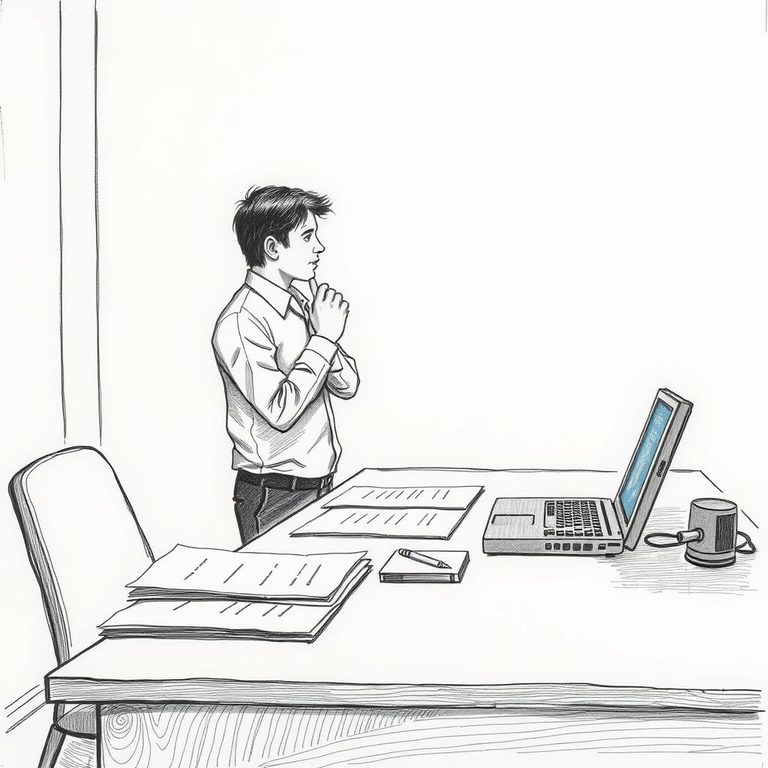
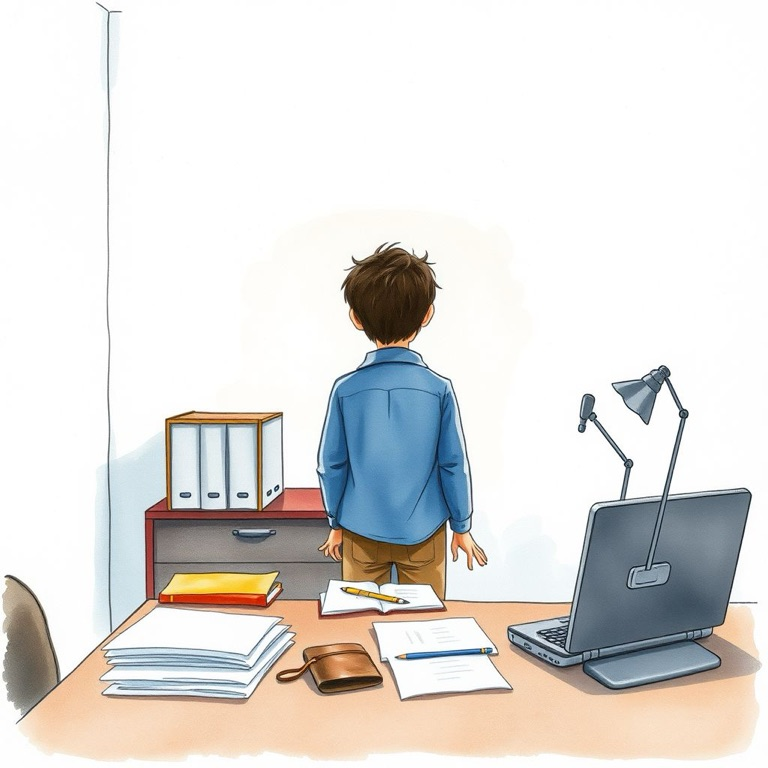
訪客牆：訪客寫的日記互相看得到（只能看、不能改不能刪），一天可寫多篇 (#75)
- 有跡可循：每篇訪客日記記下 IP 的 HMAC 雜湊（不存原始 IP）
- 公開前檢查：讀日記的 AI 同一次判斷能不能公開；含網址、電話、Email、LINE 的不公開；沒畫出圖的不公開
- 訪客改了日記：重新檢查過才再公開
- 別人寫的日記唯讀，沒有編輯、重新生成按鈕
- 所有人同一天都能寫多篇
- 範例 2、3、5 換新畫風的圖（日系動漫、懷舊底片、水彩繪本）
- CI：第二位訪客看不到未公開的、公開後看得到但打不開編輯頁

diff --git a/public/assets/css/style-v2.css b/public/assets/css/style-v2.css
@@ -2089,3 +2089,4 @@ h1, h2, h3, .btn, .chip-body, .calendar-header h2 { font-weight: 400; }
   .style-chip input:checked + .chip-body { animation: none; }
   .mc-hero-back, .diary-thumb { transition: none; }
 }
+.trial-note { display: block; margin-top: 2px; font-size: 0.82rem; color: var(--color-text-muted); }

diff --git a/app/controllers/DiaryController.php b/app/controllers/DiaryController.php
@@ -12,6 +12,7 @@ require_once __DIR__ . '/../helpers/csrf.php';
 require_once __DIR__ . '/../helpers/validator.php';
 require_once __DIR__ . '/../helpers/demo_diaries.php';
 require_once __DIR__ . '/../helpers/replicate.php';
+require_once __DIR__ . '/../helpers/guest_wall.php';
 
 class DiaryController
 {
@@ -31,15 +32,22 @@ class DiaryController
         $year = (int)($_GET['year'] ?? date('Y'));
         $month = str_pad((int)($_GET['month'] ?? date('m')), 2, '0', STR_PAD_LEFT);
 
-        // 註冊的使用者只看自己的；訪客（含試寫過一篇的訪客）看範例日記加上自己寫的
-        $own = $user_id > 0 ? $this->diaryModel->getDiariesByMonth($user_id, $year, $month) : [];
+        // 註冊的使用者只看自己的；沒註冊的人（含訪客）看範例日記＋所有訪客寫的（大家互相看得到）
         if (isRegisteredUser()) {
-            $diaries = $own;
+            $diaries = $this->diaryModel->getDiariesByMonth($user_id, $year, $month);
         } else {
-            // 訪客自己寫了的那天就不放範例，免得同一天變兩篇
-            $ownDates = array_column($own, 'diary_date');
-            $demos = array_filter(demoDiaries($year, $month), fn($d) => !in_array($d['diary_date'], $ownDates, true));
-            $diaries = array_merge(array_values($demos), $own);
+            $guests = $this->diaryModel->getGuestDiariesByMonth($year, $month);
+            // 自己寫的（含還沒公開的）也要看得到，同一篇不重複
+            if ($user_id > 0) {
+                $ids = array_column($guests, 'id');
+                foreach ($this->diaryModel->getDiariesByMonth($user_id, $year, $month) as $mine) {
+                    if (!in_array($mine['id'], $ids)) $guests[] = $mine;
+                }
+            }
+            // 有訪客寫了的那天就不放範例，免得範例跟訪客的擠在同一格
+            $guestDates = array_column($guests, 'diary_date');
+            $demos = array_filter(demoDiaries($year, $month), fn($d) => !in_array($d['diary_date'], $guestDates, true));
+            $diaries = array_merge(array_values($demos), $guests);
         }
         $pageTitle = '心情日曆';
         include BASE_PATH . '/app/views/diary/calendar.php';
@@ -95,16 +103,16 @@ class DiaryController
         $mood = $validation['mood'];
         $diary_date = $validation['diary_date'];
 
-        // 一天只能一篇：該日期已有日記則導向編輯既有日記，不再新增
-        // 訪客例外：試寫第二篇不該被轉去編輯頁（編輯不會重畫、訪客又不能刪），變成死路
-        $existing = isRegisteredUser() ? $this->diaryModel->getDiariesByDate($user_id, $diary_date) : [];
-        if (!empty($existing)) {
-            header('Location: ' . APP_URL . '/public/index.php?action=diary_edit&id=' . $existing[0]['id'] . '&notice=date_exists');
-            exit;
-        }
+        // 同一天可以寫好幾篇（日曆那格會變成好幾個點，點進去看當天列表）
 
         try {
             $diary_id = $this->diaryModel->create($user_id, $title, $content, $mood, $diary_date, null, null);
+
+            if ($diary_id && !isRegisteredUser()) {
+                $ipHash = guestIpHash(rateLimitClientIp());
+                $this->diaryModel->update($diary_id, ['ip_hash' => $ipHash]);
+                logMessage("訪客日記 #{$diary_id} ip_hash=" . substr($ipHash, 0, 16), 'INFO');
+            }
 
             if ($diary_id) {
                 $_SESSION['diary_art_style'] = $_POST['image_style'] ?? 'random';
@@ -168,6 +176,13 @@ class DiaryController
                 'mood' => $validation['mood'],
             ]);
 
+            if (!isRegisteredUser()) {
+                $public = !empty($diary['image_path'])
+                    && !looksLikeContactOrSpam($validation['title'] . "\n" . $validation['content'])
+                    && aiSaysPublicOk($validation['title'], $validation['content']);
+                $this->diaryModel->update($diary_id, ['is_public' => $public ? 1 : 0]);
+            }
+
             header('Location: ' . APP_URL . '/public/index.php?action=diary_detail&id=' . $diary_id);
             exit;
         }
@@ -191,6 +206,10 @@ class DiaryController
             $diary = findDemoDiary($diary_id, $year, $month);
         } elseif ($diary_id > 0) {
             $diary = $this->diaryModel->findById($diary_id, $user_id);
+            // 別的訪客寫的：沒註冊的人看得到，唯讀
+            if (!$diary && !isRegisteredUser()) {
+                $diary = $this->diaryModel->findGuestDiary($diary_id);
+            }
         } else {
             $this->showError('無效的日記 ID');
             return;
@@ -215,7 +234,15 @@ class DiaryController
         $user_id = $_SESSION['user_id'] ?? 0;
         $date = $_GET['date'] ?? date('Y-m-d');
 
-        $diaries = $user_id > 0 ? $this->diaryModel->getDiariesByDate($user_id, $date) : [];
+        $diaries = isRegisteredUser()
+            ? $this->diaryModel->getDiariesByDate($user_id, $date)
+            : $this->diaryModel->getGuestDiariesByDate($date); // 沒註冊的人看所有訪客那天公開的
+        if (!isRegisteredUser() && $user_id > 0) {
+            $ids = array_column($diaries, 'id');
+            foreach ($this->diaryModel->getDiariesByDate($user_id, $date) as $mine) {
+                if (!in_array($mine['id'], $ids)) $diaries[] = $mine;
+            }
+        }
         $pageTitle = $date . ' 的日記';
         include BASE_PATH . '/app/views/diary/date_list.php';
     }
@@ -300,12 +327,7 @@ class DiaryController
         $diary_date = $validation['diary_date'];
         $mood = $validation['mood'];
 
-        // 一天只能一篇：該日期已有日記則回傳既有日記 id，不再新增
-        $existing = $this->diaryModel->getDiariesByDate($user_id, $diary_date);
-        if (!empty($existing)) {
-            echo json_encode(['success' => false, 'message' => '該日期已有日記', 'existing_id' => $existing[0]['id']]);
-            return;
-        }
+        // 同一天可以寫好幾篇
 
         try {
             $diary_id = $this->diaryModel->create(
@@ -388,9 +410,9 @@ class DiaryController
         $results = ['success' => true, 'image_url' => null, 'quote' => null];
 
         // 先讓文字模型讀日記：寫出英文畫面描述（給生圖用）與心情短語
-        $reading = ['scene' => null, 'quote' => null];
+        $reading = ['scene' => null, 'quote' => null, 'public_ok' => false];
         try {
-            $reading = $this->callAIDiaryReading($content, $mood);
+            $reading = $this->callAIDiaryReading($content, $mood, $diary['title'] ?? '');
         } catch (Exception $e) {
             logMessage("AI 讀日記失敗: " . $e->getMessage(), 'ERROR');
             $results['quote_error'] = $e->getMessage();
@@ -411,6 +433,13 @@ class DiaryController
         if ($reading['quote']) {
             $results['quote'] = $reading['quote'];
             $this->diaryModel->update($diary_id, ['ai_generated_text' => $reading['quote']]);
+        }
+
+        // 訪客牆：有圖、AI 說可以公開、沒留網址電話，才給別的訪客看
+        if (!isRegisteredUser() && $results['image_url']) {
+            $public = $reading['public_ok'] && !looksLikeContactOrSpam(($diary['title'] ?? '') . "\n" . $content);
+            $this->diaryModel->update($diary_id, ['is_public' => $public ? 1 : 0]);
+            if (!$public) logMessage("訪客日記 #{$diary_id} 不公開（AI 檢查或含聯絡方式）", 'INFO');
         }
 
         // 沒畫出圖：次數還回去、解除 60 秒限制、留住畫風，讓「再試一次」馬上能用
@@ -566,15 +595,7 @@ class DiaryController
     // ============================================================
     private function showCreateForm()
     {
-        // 一天只能一篇：若指定日期已有日記，直接導向編輯既有日記
-        $user_id = $_SESSION['user_id'] ?? 0;
-        $requestedDate = $_GET['date'] ?? date('Y-m-d');
-        $existing = isRegisteredUser() ? $this->diaryModel->getDiariesByDate($user_id, $requestedDate) : []; // 訪客可以同一天多寫幾篇
         $aiRemaining = isRegisteredUser() ? null : aiLimitRemaining(); // 訪客看得到今天還能試幾次
-        if (!empty($existing)) {
-            header('Location: ' . APP_URL . '/public/index.php?action=diary_edit&id=' . $existing[0]['id'] . '&notice=date_exists');
-            exit;
-        }
         $pageTitle = '新增日記';
         include BASE_PATH . '/app/views/diary/create.php';
     }
@@ -685,7 +706,7 @@ class DiaryController
     // 內部：讀日記（GPT-5 nano）→ 英文畫面描述＋繁中心情短語
     // 生圖模型看不懂中文，所以先把日記寫成具體的英文畫面，圖才會跟內容對得上
     // ============================================================
-    private function callAIDiaryReading($content, $mood)
+    private function callAIDiaryReading($content, $mood, $title = '')
     {
         $prompt = "你是插畫導演，也是溫柔的朋友。讀下面這篇日記，只回傳一個 JSON 物件，不要其他文字。\n"
                 . "欄位規則：\n"
@@ -693,13 +714,15 @@ class DiaryController
                 . "畫面裡不能有招牌、菜單、海報、螢幕上的字或任何文字，場景請描述成人物與物品的特寫。\n"
                 . "- quote：繁體中文，12～22 字，像朋友讀完後寫在卡片背面的一句話：有一點詩意的比喻，貼著這篇的心情（好笑就輕快、緊張就安撫）。"
                 . "不要重述日記內容，不要用「光」「溫暖」這類空泛字眼。\n"
-                . '格式：{"scene": "...", "quote": "..."}' . "\n\n"
+                . "- public_ok：這篇能不能公開給陌生人看。辱罵或歧視他人、色情、暴力威脅、自傷內容、指名道姓攻擊真實人物、廣告或拉人、留下聯絡方式或個資，就是 false；一般心情、抱怨、難過都是 true。\n"
+                . '格式：{"scene": "...", "quote": "...", "public_ok": true}' . "\n\n"
+                . "標題：" . mb_substr((string) $title, 0, 100) . "\n"
                 . "日記（心情 {$mood}）：\n" . mb_substr($content, 0, 600);
 
         $data = extractJsonObject(replicateText($prompt, 300)) ?? [];
         $scene = trim((string) ($data['scene'] ?? ''));
         $quote = trim((string) ($data['quote'] ?? ''));
-        return ['scene' => $scene ?: null, 'quote' => $quote ?: null];
+        return ['scene' => $scene ?: null, 'quote' => $quote ?: null, 'public_ok' => ($data['public_ok'] ?? false) === true];
     }
 
     // ============================================================

diff --git a/app/models/Diary.php b/app/models/Diary.php
@@ -54,7 +54,7 @@ class Diary
         try {
             $fields = [];
             $values = [];
-            foreach (['ai_generated_text', 'image_path', 'title', 'content', 'mood', 'diary_date'] as $field) {
+            foreach (['ai_generated_text', 'image_path', 'title', 'content', 'mood', 'diary_date', 'is_public', 'ip_hash'] as $field) {
                 if (array_key_exists($field, $data)) {
                     $fields[] = "$field = ?";
                     $values[] = $data[$field];
@@ -108,6 +108,53 @@ class Diary
      * 獲取指定使用者和月份的所有日記
      * @return array
      */
+    // 訪客寫的日記，過了 AI 檢查（is_public = 1）大家都看得到（訪客帳號都叫 guest_數字，24 小時後連同日記一起刪掉）
+    public function getGuestDiariesByMonth($year, $month)
+    {
+        try {
+            $startDate = "$year-$month-01";
+            $endDate = date("Y-m-t", strtotime($startDate));
+            $stmt = $this->db->prepare(
+                "SELECT d.id, d.user_id, d.title, d.mood, d.diary_date, d.image_path FROM diaries d JOIN users u ON u.id = d.user_id
+                 WHERE u.username LIKE 'guest\_%' ESCAPE '\\' AND d.is_public = 1 AND d.diary_date BETWEEN ? AND ? ORDER BY d.diary_date ASC, d.created_at ASC"
+            );
+            $stmt->execute([$startDate, $endDate]);
+            return $stmt->fetchAll();
+        } catch (PDOException $e) {
+            error_log("Failed to get guest diaries by month: " . $e->getMessage());
+            return [];
+        }
+    }
+
+    public function getGuestDiariesByDate($date)
+    {
+        try {
+            $stmt = $this->db->prepare(
+                "SELECT d.id, d.user_id, d.title, d.content, d.mood, d.diary_date, d.ai_generated_text, d.image_path, d.created_at FROM diaries d JOIN users u ON u.id = d.user_id
+                 WHERE u.username LIKE 'guest\_%' ESCAPE '\\' AND d.is_public = 1 AND d.diary_date = ? ORDER BY d.created_at ASC"
+            );
+            $stmt->execute([$date]);
+            return $stmt->fetchAll();
+        } catch (PDOException $e) {
+            error_log("Failed to get guest diaries by date: " . $e->getMessage());
+            return [];
+        }
+    }
+
+    public function findGuestDiary($diaryId)
+    {
+        try {
+            $stmt = $this->db->prepare(
+                "SELECT d.* FROM diaries d JOIN users u ON u.id = d.user_id WHERE d.id = ? AND d.is_public = 1 AND u.username LIKE 'guest\_%' ESCAPE '\\'"
+            );
+            $stmt->execute([$diaryId]);
+            return $stmt->fetch() ?: null;
+        } catch (PDOException $e) {
+            error_log("Failed to find guest diary: " . $e->getMessage());
+            return null;
+        }
+    }
+
     public function getDiariesByMonth($userId, $year, $month)
     {
         try {

diff --git a/app/helpers/guest_wall.php b/app/helpers/guest_wall.php
@@ -1,0 +1,52 @@
+<?php
+// app/helpers/guest_wall.php
+// 訪客牆：訪客寫的日記互相看得到。兩層保護：
+// 1. 有跡可循：每篇記下寫的人 IP 的雜湊（HMAC，金鑰放在資料庫旁邊，不存原始 IP）
+// 2. 公開前先檢查：有網址、電話、Email、LINE 帳號的不公開；AI 讀日記時順便判斷適不適合公開
+
+// IP 雜湊用的金鑰：第一次用時產生一把亂數存進資料庫目錄（跟資料庫在同一個 volume，重新部署不會變）
+function guestIpHash(string $ip): string
+{
+    $dir = BASE_PATH . '/database';
+    $file = $dir . '/.ip_hash_key';
+    $key = is_readable($file) ? trim((string) file_get_contents($file)) : '';
+    if ($key === '') {
+        $key = bin2hex(random_bytes(32));
+        @file_put_contents($file, $key, LOCK_EX);
+        @chmod($file, 0600);
+    }
+    return hash_hmac('sha256', $ip, $key);
+}
+
+// 看起來像廣告或留個資的就不公開（這些人最常拿留言板亂用）
+function looksLikeContactOrSpam(string $text): bool
+{
+    $patterns = [
+        '~https?://|www\.|\.(com|net|org|tw|io|cc|me)\b~i', // 網址
+        '~[\w.+-]+@[\w-]+\.[\w.]+~',                         // Email
+        '~(?<!\d)09\d{2}[-\s]?\d{3}[-\s]?\d{3}(?!\d)~',       // 台灣手機
+        '~(?<!\d)0\d{1,2}[-\s]?\d{6,8}(?!\d)~',               // 市話
+        '~\bline\s*(id)?\s*[:：]~i',                          // LINE 帳號
+        '~加\s*(賴|line|LINE|微信|wechat)~u',
+    ];
+    foreach ($patterns as $p) {
+        if (preg_match($p, $text)) return true;
+    }
+    return false;
+}
+
+// 單獨問一次 AI：這篇適不適合給陌生人看（給「訪客改了日記」用；新日記在讀日記那次就一起判斷）
+function aiSaysPublicOk(string $title, string $content): bool
+{
+    $prompt = "判斷下面這篇日記能不能公開給陌生人看，只回傳 JSON：{\"public_ok\": true 或 false}。\n"
+            . "以下任何一種就是 false：辱罵或歧視他人、色情、暴力威脅、自傷內容、指名道姓攻擊真實人物、廣告或拉人、留下任何聯絡方式或個資。"
+            . "一般心情、抱怨、難過都是 true。\n\n"
+            . "標題：" . mb_substr($title, 0, 100) . "\n內容：" . mb_substr($content, 0, 600);
+    try {
+        $data = extractJsonObject(replicateText($prompt, 60)) ?? [];
+        return ($data['public_ok'] ?? false) === true;
+    } catch (Throwable $e) {
+        logMessage('公開檢查失敗: ' . $e->getMessage(), 'ERROR');
+        return false; // 檢查不了就先不公開
+    }
+}

diff --git a/app/views/diary/detail.php b/app/views/diary/detail.php
@@ -15,7 +15,8 @@ $date = new DateTime($diary['diary_date'] ?? 'now');
 $imagePath = $diary['image_path'] ?? '';
 $aiText = $diary['ai_generated_text'] ?? '';
 $diaryId = $diary['id'];
-$isDemo = !empty($diary['is_demo']); // 訪客看的範例日記：唯讀，不顯示編輯與 AI 按鈕
+$isDemo = !empty($diary['is_demo']);
+$readOnly = $isDemo || empty($is_owner); // 範例、別的訪客寫的：唯讀，不顯示編輯與 AI 按鈕
 
 $pageTitle = ($diary['title'] ?? '無標題') . ' | ' . $date->format('Y-m-d');
 $metaDescription = mb_substr(strip_tags($diary['content'] ?? ''), 0, 80, 'UTF-8');
@@ -34,7 +35,7 @@ if (!empty($imagePath)) {
 
 $hasImage = !empty($imageUrl);
 $hasQuote = !empty($aiText);
-$aiGenerating = !$isDemo && ($ai_generating ?? false);
+$aiGenerating = !$readOnly && ($ai_generating ?? false);
 $ogImage = $imageUrl; // 分享時的預覽圖用這篇的圖
 require_once BASE_PATH . '/app/views/layout/header.php';
 ?>
@@ -111,7 +112,7 @@ require_once BASE_PATH . '/app/views/layout/header.php';
 
     <div class="diary-actions">
         <a href="index.php?action=home" class="btn btn-tertiary">返回日曆</a>
-        <?php if ($isDemo): ?>
+        <?php if ($readOnly): ?>
             <a href="index.php?action=diary_create" class="btn btn-primary">我也試寫一篇</a>
         <?php else: ?>
             <a href="index.php?action=diary_edit&id=<?php echo $diaryId; ?>" class="btn btn-tertiary">編輯</a>
@@ -120,7 +121,7 @@ require_once BASE_PATH . '/app/views/layout/header.php';
     </div>
 </div>
 
-<?php if (!$isDemo && !$aiGenerating && !$hasImage): ?>
+<?php if (!$readOnly && !$aiGenerating && !$hasImage): ?>
 <div class="diary-actions" style="margin-top:0.5rem">
     <button id="regenerate-ai-btn" class="btn btn-secondary" style="font-size:0.85rem" data-diary-id="<?php echo (int) $diaryId; ?>">重新生成 AI</button>
 </div>

diff --git a/app/views/layout/header.php b/app/views/layout/header.php
@@ -104,7 +104,7 @@ if (!defined('APP_URL')) {
         <?php if (!empty($_SESSION['is_guest'])): ?>
             <div id="demo-banner" class="demo-banner" role="region" aria-label="訪客模式提示">
                 <div class="demo-banner-content">
-                    <span style="font-size:0.92rem;"><strong>試寫模式</strong> 訪客寫的日記 24 小時後自動刪除，註冊才會保存。</span>
+                    <span style="font-size:0.92rem;"><strong>試寫模式</strong> 訪客寫的日記其他訪客也看得到，24 小時後自動刪除；註冊才會保存、只有自己看得到。</span>
                 </div>
                 <div class="demo-banner-actions">
                     <a href="<?php echo APP_URL; ?>/public/index.php?action=register" class="btn btn-secondary demo-banner-cta">註冊 / 登入</a>

diff --git a/app/views/diary/create.php b/app/views/diary/create.php
@@ -11,7 +11,7 @@ require_once BASE_PATH . '/app/views/layout/header.php';
     <p class="form-lead">寫完按下去，AI 會讀你的日記，畫成一張拍立得、再寫一句話給你。</p>
     <?php if (isset($aiRemaining)): ?>
         <div class="trial-bar">
-            <span>不用註冊，今天還能試 <strong><?php echo (int) $aiRemaining; ?></strong> 次</span>
+            <span>不用註冊，今天還能試 <strong><?php echo (int) $aiRemaining; ?></strong> 次<small class="trial-note">寫好的日記其他訪客也看得到</small></span>
             <button type="button" class="btn btn-tertiary trial-fill" id="fill-sample">不知道寫什麼？幫我填一篇</button>
         </div>
     <?php endif; ?>

diff --git a/config/config.php b/config/config.php
@@ -180,6 +180,15 @@ function getDbConnection()
                 }
             }
 
+            // 舊資料庫補欄位（2026-11-12 訪客牆）：沒有就加，有就跳過
+            $cols = array_column($pdo->query('PRAGMA table_info(diaries)')->fetchAll(), 'name');
+            if ($cols && !in_array('is_public', $cols, true)) {
+                $pdo->exec('ALTER TABLE diaries ADD COLUMN is_public INTEGER NOT NULL DEFAULT 0');
+            }
+            if ($cols && !in_array('ip_hash', $cols, true)) {
+                $pdo->exec('ALTER TABLE diaries ADD COLUMN ip_hash VARCHAR(64) DEFAULT NULL');
+            }
+
             return $pdo;
 
         } else {
